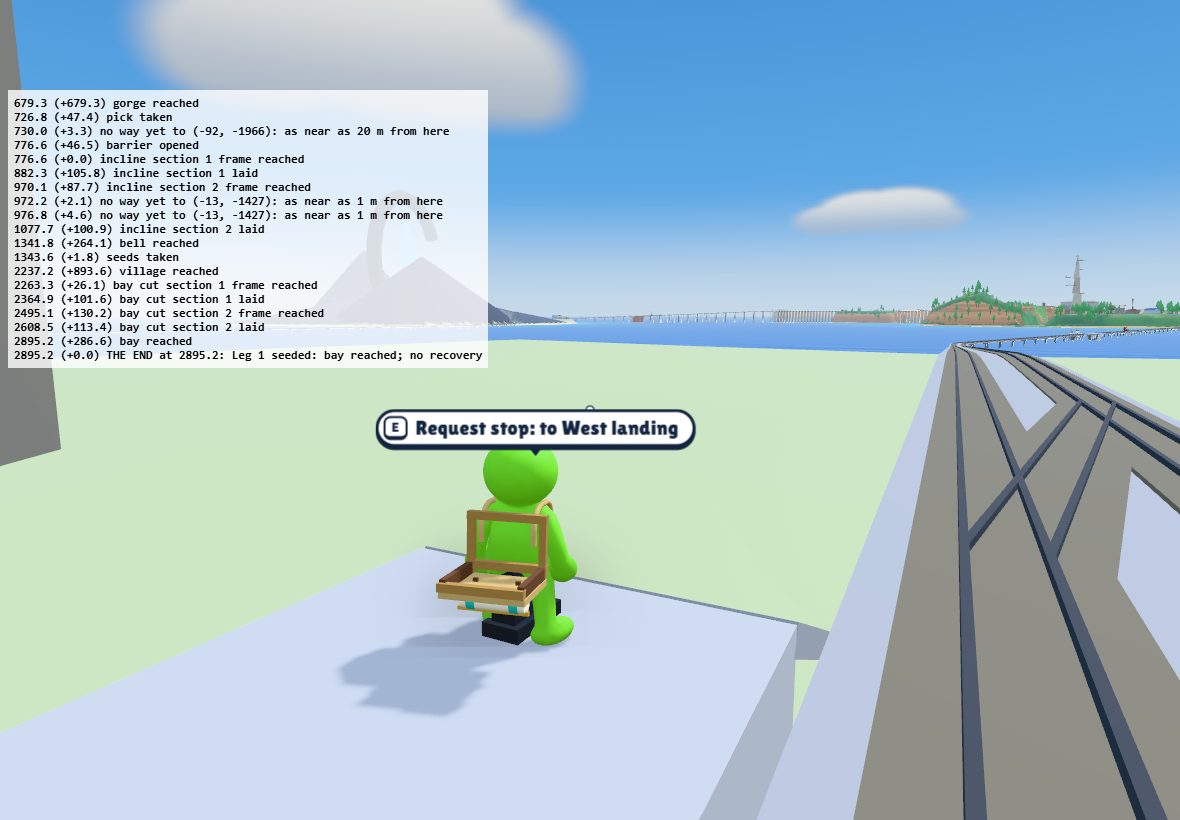
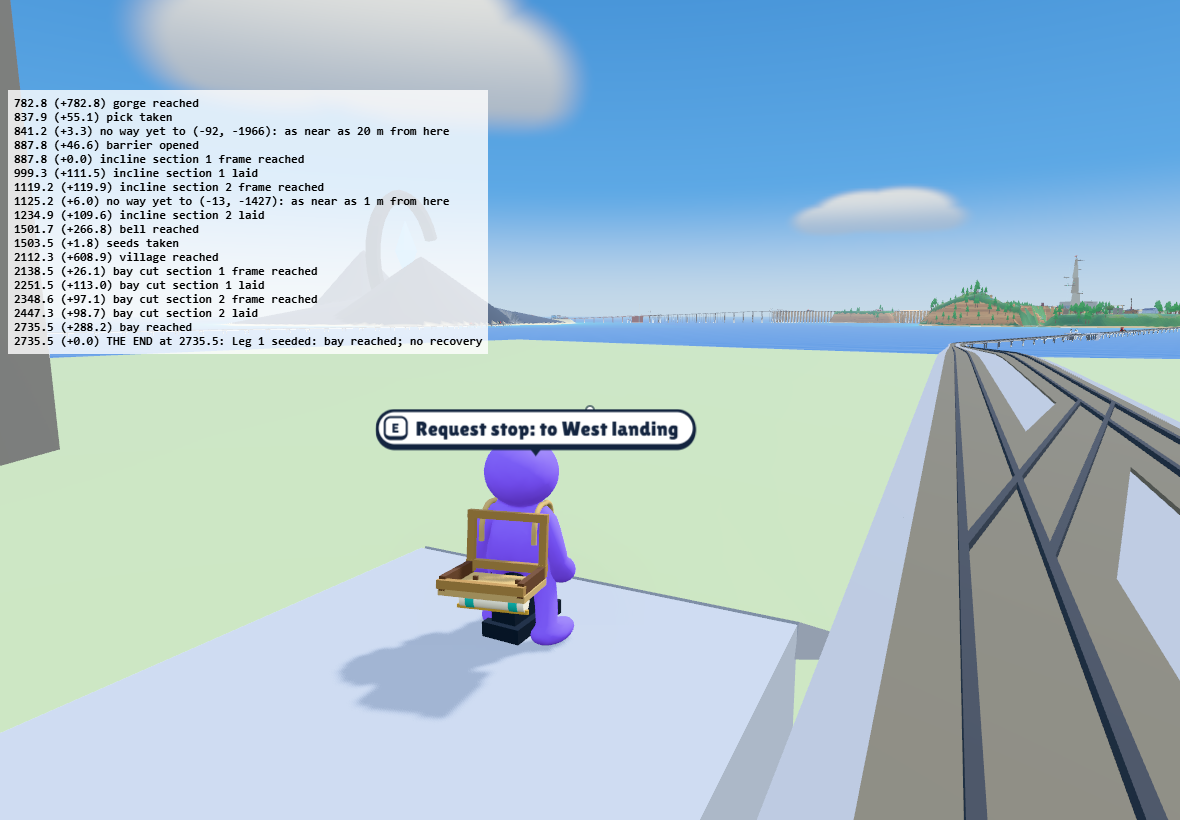
Greybox leg 2 step 5: the as-built note names the final runs (a pass on the rebased branch) and its end still

diff --git a/docs/plans/greybox-leg2.md b/docs/plans/greybox-leg2.md
@@ -493,17 +493,19 @@ for 1 to 4 players (allowance 72), Bell Rock 12 / 14 / 14 / 14 (allowance 30), t
 solo with the two stand-ins). A lower bound: the loop walks Bell Rock to the West landing in a straight line over the
 sea and rides no train.
 
-`npm run playthrough -- --from gorge-reached --to bay --wall 3600 --stall 1800`: **pass**, three runs. The first stopped
-at head 1: the bot gave up on the train the lay had already asked for after a minute of page time (a bot defect, fixed).
-The second passed but ended in the bay train's open car: its step-off aimed at the halt's point, which is on the track
-(fixed: the last step-off lands on the outward platform at the lever's spot). The third (`fac0261a`, load 1.77 → 3.76,
-not under load) passed with no recovery: fifteen checkpoints in order, ending on Bell Rock's upper platform by the bay
-lever. Room ticks, one bot run (not evidence of feel or timing): the pick 50 s after the Gorge, the incline 3.1 min from
-the barrier to Bell Rock, **the ride home 4.9 min** (the seeds to the Village; the plan's arithmetic said 6 to 7 with
-the walk), the bay cut 3.2 min from the West landing's frame to Bell Rock's upper platform, 12.9 min from the Gorge to
-the bay reached. Findings: twice a run, aboard line 2, the cord offered a stop the server then refused (`rail.call`:
-"Request stop: Ring Island", "Request stop: Stack head 3", a head closed behind); the longest wait, 4 min 13 s at bay
-head 1, was for the train the last lay asked for.
+`npm run playthrough -- --from gorge-reached --to bay --wall 3600 --stall 1800`: **pass** on the rebased branch
+(`077ba8fa`, load 1.32 → 1.35, not under load), five runs in all. The first stopped at head 1: the bot gave up on the
+train the lay had already asked for after a minute of page time (a bot defect, fixed). The second passed but ended in
+the bay train's open car: its step-off aimed at the halt's point, which is on the track (fixed: the last step-off lands
+on the outward platform at the lever's spot). The third passed (`fac0261a`). The fourth, on the rebased branch, ran out
+of `bot.walk`'s default budget 40.8 m short of the pick: the switchback walks about three times its straight distance
+(fixed: the climb and the way down get four minutes). The fifth passed with no recovery: fifteen checkpoints in order,
+ending on Bell Rock's upper platform by the bay lever. Room ticks, one bot run (not evidence of feel or timing): the
+pick 18 s after the Gorge, the incline 3.1 min from the barrier to Bell Rock, **the ride home 4.9 min** (the seeds to
+the Village; the plan's arithmetic said 6 to 7 with the walk), the bay cut 3.2 min from the West landing's frame to
+Bell Rock's upper platform, 12.0 min from the Gorge to the bay reached. Findings: twice a run, aboard line 2, the cord
+offered a stop the server then refused (`rail.call`: "Request stop: Ring Island", "Request stop: Stack head 3", a head
+closed behind); the longest wait, 3 to 4 min at bay head 1, was for the train the last lay asked for.
 
 **Step 4's re-check P3s.** (1) The bore's bed is 0.15 m under the row's straight grade, not the drawn rail: the smoothed
 rail runs up to 0.103 m under those pieces, so the bed's top is 0.045 to 0.17 m under the drawn rail, least at the grade
